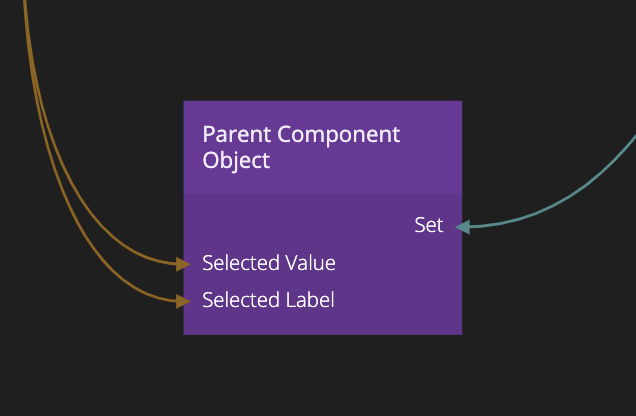
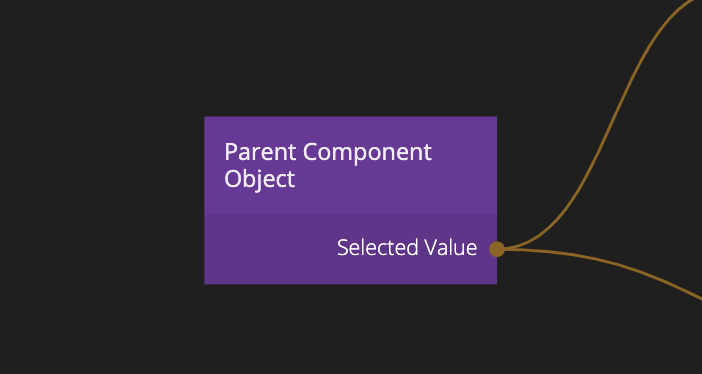
Component object docs

diff --git a/2.4/nodes/component-utilities/parent-component-object/README.md b/2.4/nodes/component-utilities/parent-component-object/README.md
@@ -1,38 +1,38 @@
+<##head##>
 # Parent Component Object
 
-Parent Component Object is always used in combination with a [Component Object](/nodes/componentutils/component-state.md). A Parent Component Object will search upwards in the component tree until it finds a Component Object node and mirror that node. Any change being done to one node will be reflected in the other nodes. Multiple Parent Component Object nodes in the same component will always mirror the same Component Object.
+**Parent Component Object** is always used in combination with a [Component Object](/nodes/component-utilities/component-object/). A **Parent Component Object** will search upwards in the component tree until it finds a **Component Object** node and mirror that node. Any change being done to one node will be reflected in the other nodes. Multiple **Parent Component Object** nodes in the same component will always mirror the same **Component Object**.
 
 ![](parent-component-object.png ':class=img-size-m')
 
-The node is used much like an [Object](/nodes/data/object/object/) where you can **Set** properties on the node. The node does not have an **Id** instead the data is shared with the parent component. This node is very useful in patterns such as radio groups where child components may need to access the **Component Object** of its parent.
+The node is used much like an [Object](/nodes/data/object/object/) where you can output properties on the node. The node does not have an **Id** instead the data is shared with the parent component. This node is very useful in patterns such as radio groups where child components may need to access the **Component Object** of its parent.
+<##head##>
 
+## INPUTS
 
 ### Properties
-The properties to read from the [Component Object](/nodes/componentutils/component-object.md) node that this node will bind itself to. Each property will get one input and output to set/get their current value.
+<##input:value-*##>The properties to set on the closest parent [Component Object](/nodes/component-utilities/component-object/). When this input is changed via a connection the parent **Component Object** will be updated.<##input##>
 
 ### Actions
 
-**Set**  
-Stores any properties that are connected to the bound [Component Object](/nodes/componentutils/component-object.md). Just like with the [Object](/nodes/data/object/object/) node, if there are no connection to the **Set** input any updates on the connection to properties will be stored automatically.
-
 **Fetch**  
-Normally when a **Parent Component State** is created, the property outputs are immediately updated. If you want to control how the data is updated you can connect to the _Fetch_ signal input. Then you need to explictly send a signal to fetch the data.
+<##input:fetch##>Normally when a **Parent Component State** is created, the property outputs are immediately updated. If you want to control how the data is updated you can connect to the _Fetch_ signal input. Then you need to explictly send a signal to fetch the data.<##input##>
 
 With **Fetch** connected the output data won't change until **Fetch** is explicitly triggered again.
 
-## Outputs
+## OUTPUTS
 
 ### Properties
-
-The values of the properties defined in the **Properties** input.
+<##output:value-*##>The values of the properties of the closest parent [Component Object](/nodes/component-utilities/component-object/).<##output##>
 
 ### Events
 
 **Changed**  
-Signal when any of the properties have changed.
+<##output:changed##>This event is triggered when any of the properties have changed.<##output##>
 
 **Fetched**  
-Signal when this node has bound itself to a [Component Object](/nodes/componentutils/component-object.md). Triggers immediately if the **Fetch** inputs isn't connected, and will otherwise trigger when the **Fetch** input is signaled.
+<##output:fetched##>Signal when this node has bound itself to a [Component Object](/nodes/componentutils/component-object.md). Triggers immediately if the **Fetch** inputs isn't connected, and will otherwise trigger when the **Fetch** input is signaled.<##output##>
+
 ### Changed signals
 
-One changed signal output will be created for every property. They will emit a signal when the property changes value.
+<##output:changed-*##>One changed event output will be created for every property. They will emit a signal when the property changes value.<##output##>

diff --git a/2.4/nodes/component-utilities/component-object/README.md b/2.4/nodes/component-utilities/component-object/README.md
@@ -1,8 +1,10 @@
+<##head##>
 # Component Object
 
 ![](component-object.png ':class=img-size-m')
 
 Component Object is a shared set of properties that can be accessed from a component as well as from any child components. It can be used to implement things such as radio groups, tabs, accordion lists and other visual elements that need to coordinate, but is also a useful general tool for any kind communication between a set of components.
+<##head##>
 
 The **Component Object** node works much like the [Object](/nodes/data/object/object/) node where you add properties that become inputs / outputs of the node.
 
@@ -10,39 +12,31 @@ The **Component Object** node works much like the [Object](/nodes/data/object/ob
 
 Unlike the **Object** node it does not have an **Id** instead all **Component Object** nodes within the same component share the same data.
 
-## Inputs
+
+## INPUTS
 
 ### Properties
-An Component Object node can have any amount of properties. Each property will get one input and output to set/get their current value, a start value input, as well as a type input. See below for more details.
+<##input:value-*##>The value of a specific property of the Component Object. A Component Object node can have any amount of properties that must be named in the property panel. When this input is changed all other Component Object nodes in the same component are updated.<##input##> Each property will get one input and output to set/get their current value. See below for more details.
 
 ### Actions
 
-**Set**  
-Stores any properties that are connected to the Component Object. All other **Component Object** nodes in the same component, as well as any [Parent Component Object](/nodes/componentutils/parent-component-state.md) nodes, will be updated. If the **Set** input does not have a connection any properties will receive new values as soons as their connections update.
-
 **Fetch**  
-The fetch signal input can be used to explicitly signal when the data of a **Component Object** should be fetch. If a connection is made to this input the node will not automatically receive changes on it's properties, it will only get the new data when the fetch signal is triggered.
+<##input:fetch##>The fetch signal input can be used to explicitly signal when the data of a **Component Object** should be fetched. If a connection is made to this input the node will not automatically receive changes on it's properties, it will only get the new data when the fetch signal is triggered.<##input##>
 
-### Properties
-All properties will become available as inputs.
-
-## Outputs
+## OUTPUTS
 
 ### Properties
 
-An Component Object can have any amount of properties. Each property will get one output to get the current value.
+<##output:value-*##>An Component Object can have any amount of properties. Each property will get one output to get the current value.<##output##>
 
 ### Events
 
 **Changed**  
-Signal when any of the properties have changed.
-
-**Stored**  
-Signal when the *Set* input has executed.
+<##output:changed##>An event is triggered when any of the properties have changed.<##output##>
 
 **Fetched**  
-Signal is sent here when a fetch is completed as a result of a **Fetch** sent on to the node.
+<##output:fetched##>An event is triggered on this output when a fetch is completed as a result of a **Fetch** sent on to the node.<##output##>
 
 ### Changed signals
 
-One changed signal output will be created for every property. They will emit a signal when the property changes value when this or some other **Component Object** or [Parent Component Object](/nodes/componentutils/parent-component-state.md) node triggers the _Set_ input.
+<##output:changed-*##>One changed signal output will be created for every property. They will emit a signal when the property changes value when this or some other **Component Object** or [Parent Component Object](/nodes/component-utilities/parent-component-object/README.md) node triggers the _Set_ input.<##output##>

diff --git a/2.4/nodes/component-utilities/set-component-object-properties/README.md b/2.4/nodes/component-utilities/set-component-object-properties/README.md
@@ -1,0 +1,22 @@
+<##head##>
+# Set Component Object Properties
+
+**Component Object** is a shared set of properties that can be accessed from a component as well as from any child components. This node is used to set properties on the **Component Object** these properties can be accessed via the [Component Object](/nodes/component-utilities/component-object/) or the [Parent Component Object](/nodes/component-utilities/parent-component-object/).
+
+![](set-component-object-properties.png ':class=img-size-m')
+
+<##head##>
+
+## INPUTS
+
+**Do**  
+<##input:do##>Stores any properties that are typed in the property panel or connected. All **Component Object** nodes in the same component, as well as any [Parent Component Object](/nodes/component-utilities/parent-component-object/) nodes, will be updated. <##input##>
+
+## Properties
+<##input:prop-*##>A property to set in the **Component Object**. You can list the properties you want to set in the property panel.<##input##>
+
+## OUTPUTS
+
+**Done**  
+<##output:done##>An event is triggered on this output when the set action is completed.<##output##>
+

diff --git a/2.4/nodes/component-utilities/set-parent-component-object-properties/README.md b/2.4/nodes/component-utilities/set-parent-component-object-properties/README.md
@@ -1,0 +1,22 @@
+<##head##>
+# Set Parent Component Object Properties
+
+With this node you can set properties on the closed parent **Component Object**. You can access properties of the closet parent **Component Object** with the [Parent Component Object](/nodes/component-utilities/parent-component-object/) node.
+
+![](set-parent-component-object-properties.png ':class=img-size-m')
+
+<##head##>
+
+## INPUTS
+
+**Do**  
+<##input:do##>Stores any properties that are typed in the property panel or connected. All **Component Object** nodes in the same component, as well as any [Parent Component Object](/nodes/component-utilities/parent-component-object/) nodes, will be updated. <##input##>
+
+## Properties
+<##input:prop-*##>A property to set in the **Component Object**. You can list the properties you want to set in the property panel.<##input##>
+
+## OUTPUTS
+
+**Done**  
+<##output:done##>An event is triggered on this output when the set action is completed.<##output##>
+
